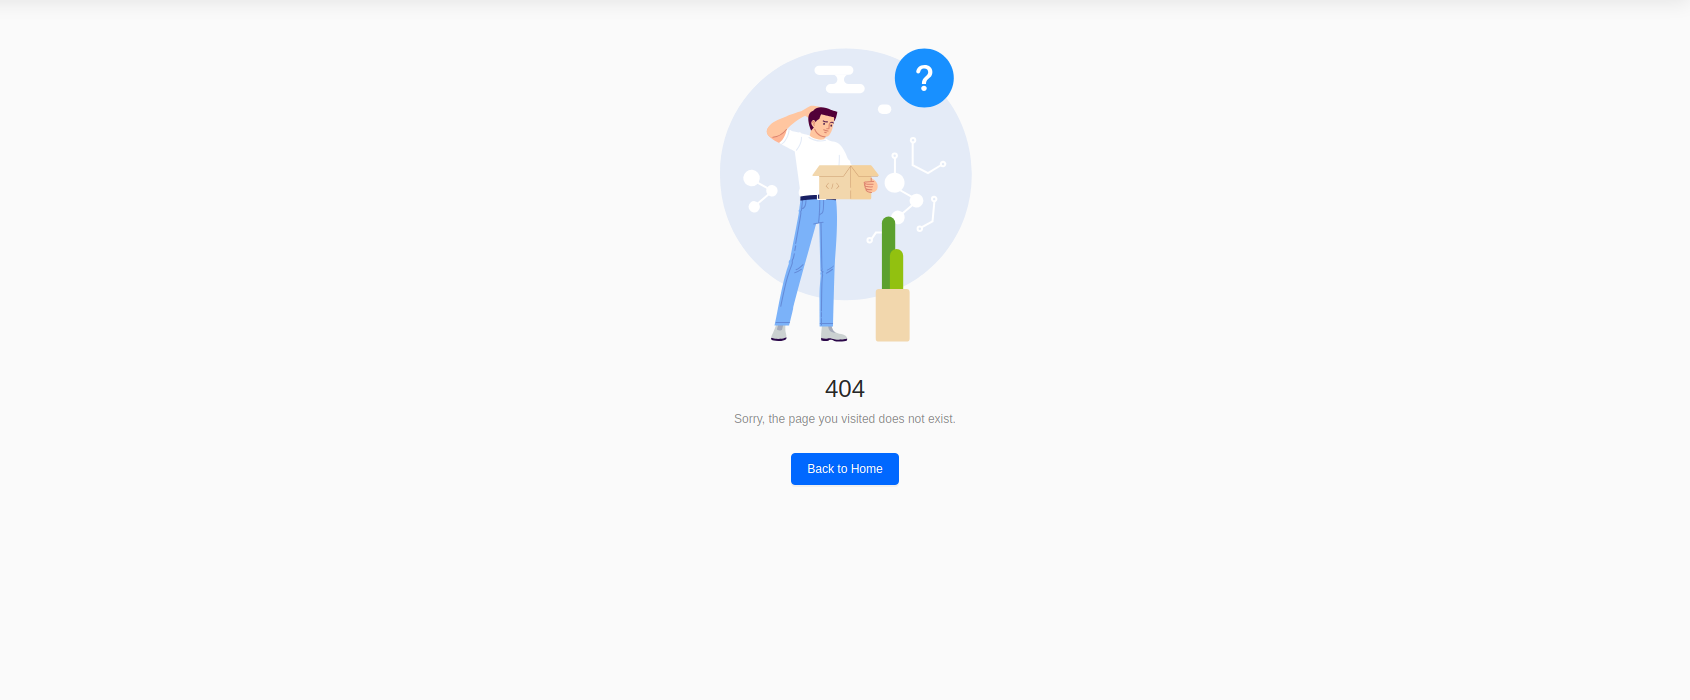
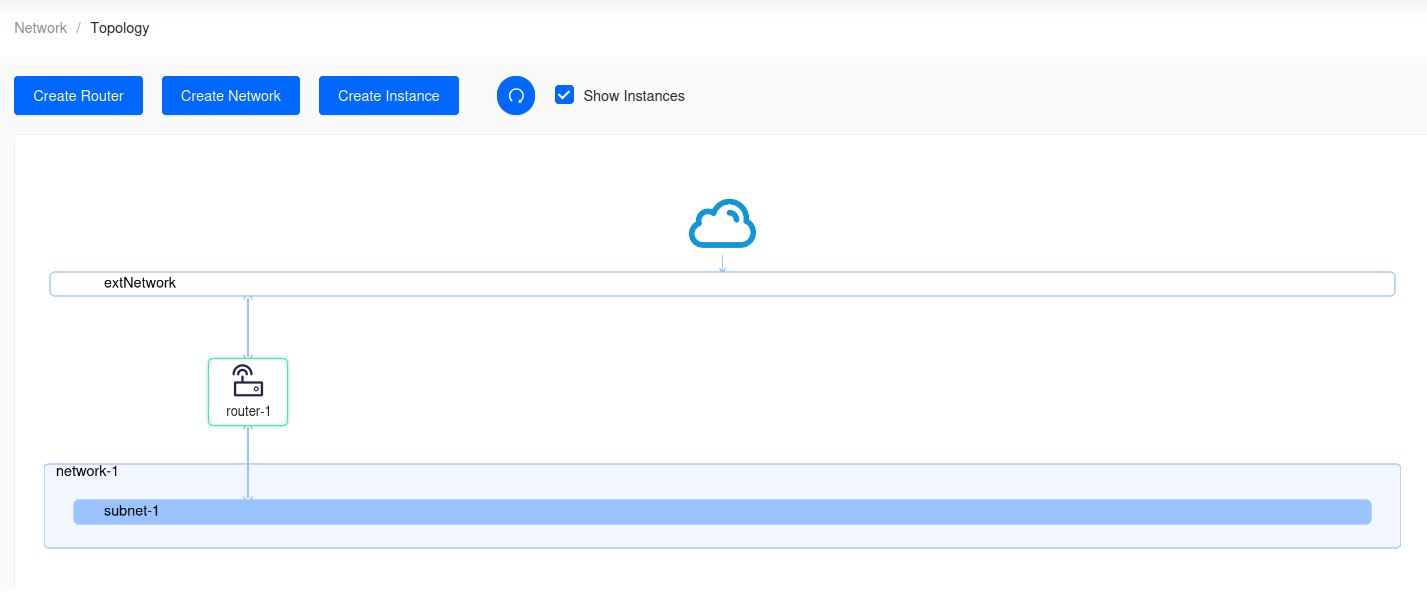
Add the network topology screenshots
The Skyline capture was its 404 page. The Phase 3 route map recorded
/network/topology, where the real route is /network/topo; Skyline serves
its 404 view with HTTP 200, so the bad route passed verification.

Horizon had no topology screenshot at all.

diff --git a/versioned_docs/operators-manual/day-1/dashboard/create-first-instance.md b/versioned_docs/operators-manual/day-1/dashboard/create-first-instance.md
@@ -84,12 +84,18 @@ To build the pieces separately, use **Create Network** on this page and **Create
 
 Go to **Project -> Network -> Network Topology**.
 
+![Network topology in Horizon](images/hz-network-topology.png)
+
+The **Graph** tab shows the same data as a node graph. **Small** and **Normal** change the level of detail.
+
 </TabItem>
 <TabItem value="skyline" label="Skyline">
 
 Go to **Network -> Topology**.
 
 ![Network topology](images/network-topology.png)
+
+Clear **Show Instances** to reduce the diagram to networks and routers.
 
 </TabItem>
 </Tabs>
